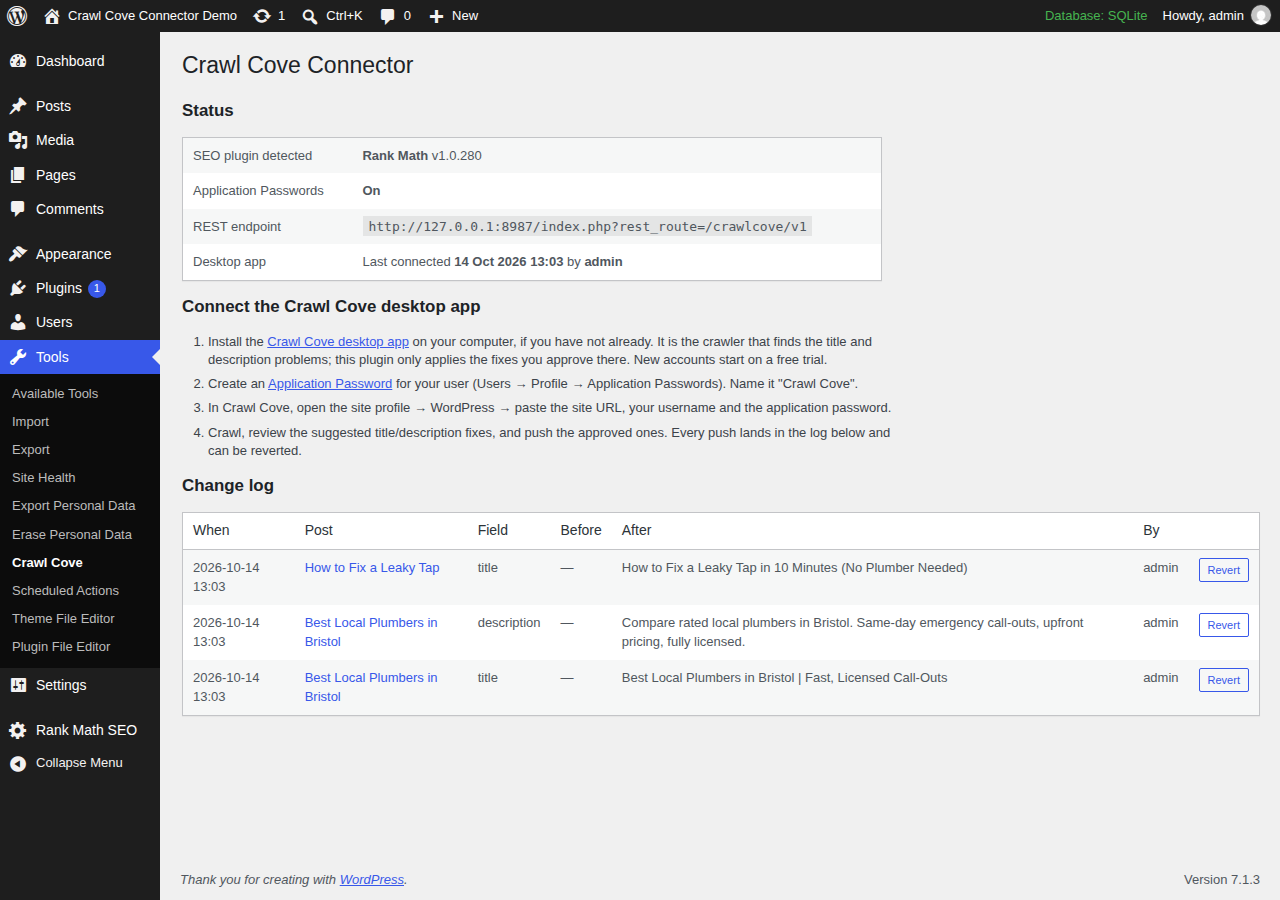
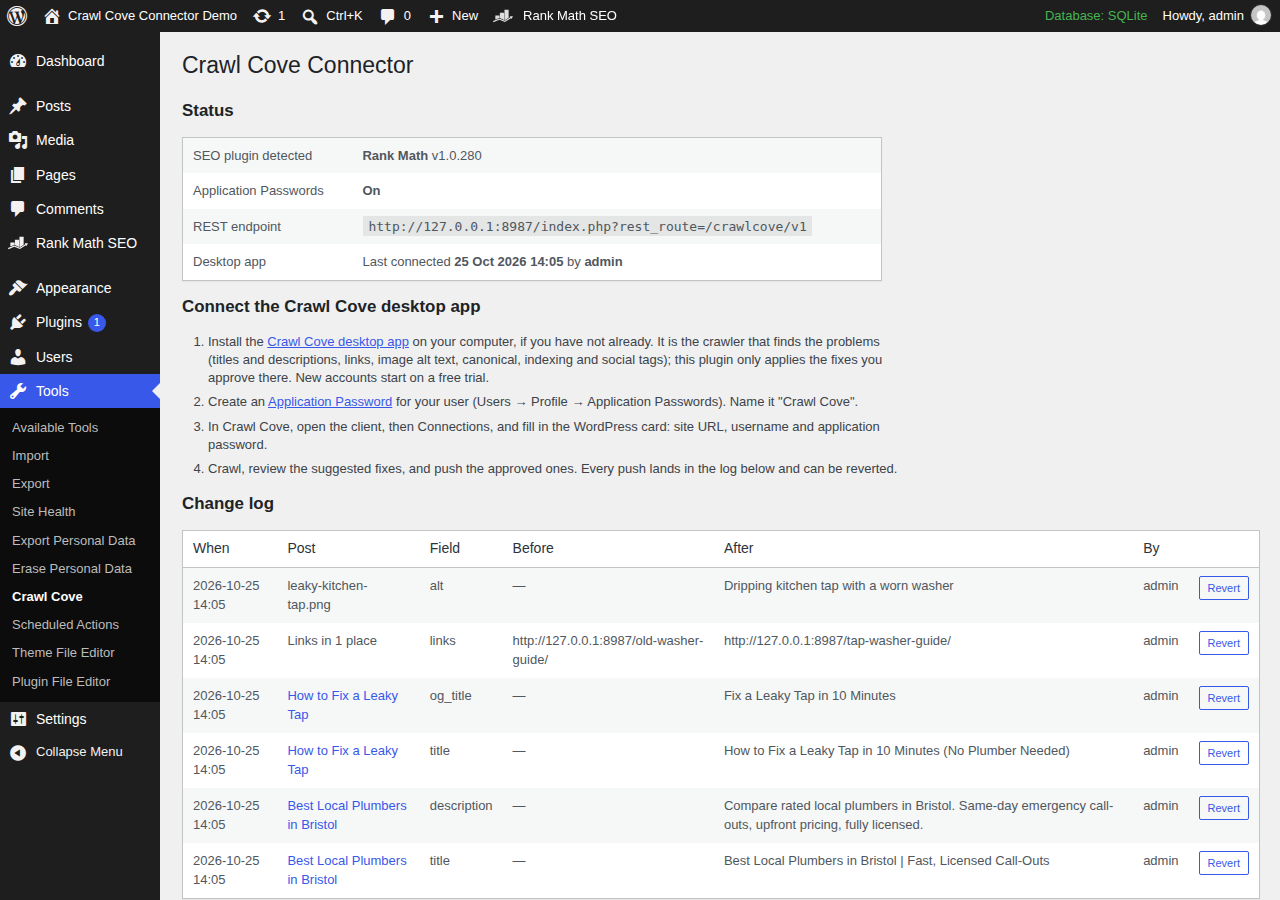
wp: Tools setup steps name the 0.11 fix kinds, screenshot recaptured with them (#282)

diff --git a/admin/class-ccc-admin.php b/admin/class-ccc-admin.php
@@ -238,7 +238,7 @@ class CCC_Admin {
 				<?php
 					printf(
 						/* translators: %s: link to the Crawl Cove download page */
-						wp_kses( __( 'Install the <a href="%s">Crawl Cove desktop app</a> on your computer, if you have not already. It is the crawler that finds the title and description problems; this plugin only applies the fixes you approve there. New accounts start on a free trial.', 'crawl-cove-connector' ), array( 'a' => array( 'href' => array() ) ) ),
+						wp_kses( __( 'Install the <a href="%s">Crawl Cove desktop app</a> on your computer, if you have not already. It is the crawler that finds the problems (titles and descriptions, links, image alt text, canonical, indexing and social tags); this plugin only applies the fixes you approve there. New accounts start on a free trial.', 'crawl-cove-connector' ), array( 'a' => array( 'href' => array() ) ) ),
 						esc_url( self::APP_URL )
 					);
 				?>
@@ -253,7 +253,7 @@ class CCC_Admin {
 				?>
 				</li>
 				<li><?php esc_html_e( 'In Crawl Cove, open the client, then Connections, and fill in the WordPress card: site URL, username and application password.', 'crawl-cove-connector' ); ?></li>
-				<li><?php esc_html_e( 'Crawl, review the suggested title/description fixes, and push the approved ones. Every push lands in the log below and can be reverted.', 'crawl-cove-connector' ); ?></li>
+				<li><?php esc_html_e( 'Crawl, review the suggested fixes, and push the approved ones. Every push lands in the log below and can be reverted.', 'crawl-cove-connector' ); ?></li>
 			</ol>
 
 			<h2><?php esc_html_e( 'Change log', 'crawl-cove-connector' ); ?></h2>

diff --git a/tests/UserFacingStringsTest.php b/tests/UserFacingStringsTest.php
@@ -66,4 +66,15 @@ class UserFacingStringsTest extends TestCase {
 		$this->assertStringContainsString( 'then Connections, and fill in the WordPress card', $admin );
 		$this->assertStringContainsString( 'then Connections, and fill in the WordPress card', (string) file_get_contents( $root . '/readme.txt' ) );
 	}
+
+	/**
+	 * 0.11 fixes far more than titles and descriptions; the setup steps must
+	 * not undersell it (review ticket #282).
+	 */
+	public function test_setup_steps_do_not_limit_fixes_to_titles_and_descriptions() {
+		$admin = (string) file_get_contents( dirname( __DIR__ ) . '/admin/class-ccc-admin.php' );
+		$this->assertStringNotContainsString( 'title/description fixes', $admin );
+		$this->assertStringNotContainsString( 'finds the title and description problems', $admin );
+		$this->assertStringContainsString( 'links, image alt text, canonical, indexing and social tags', $admin );
+	}
 }

diff --git a/wordpress-org/README.md b/wordpress-org/README.md
@@ -8,11 +8,15 @@ repo and gated behind a human-only wordpress.org account.
 - `screenshot-1.png`: Tools → Crawl Cove admin page with sample data,
   captured against the real-WP integration harness (see readme.txt's
   `== Screenshots ==` section for the caption that must stay in step).
-  Recipe (14 Oct 2026): `tests/integration/run.sh --adapter=rankmath`, then
+  Recipe (25 Oct 2026): `tests/integration/run.sh --adapter=rankmath`, then
   on `.site`: blogname "Crawl Cove Connector Demo", delete the harness posts
-  and the `ccc_change_log`/`ccc_change_seq`/`ccc_last_connection` options,
-  create two demo posts, push three fixes through the real `/apply` with an
-  admin application password, serve with `php -S 127.0.0.1:8987`, log in as
+  and attachments and the `ccc_change_log`/`ccc_change_seq`/`ccc_last_connection`
+  options, import an image as `leaky-kitchen-tap.png`, create two demo posts
+  (one linking to an old URL and showing that image with an empty alt), then
+  with an admin application password push through the real routes: `/apply`
+  title + description on one post, title + `og_title` on the other,
+  `/replace-urls` on the link and `/image-alt` on the image (six log rows,
+  so the shot shows the 0.11 fix kinds). Serve with `php -S 127.0.0.1:8987`, log in as
   admin/admin with Playwright and capture `tools.php?page=crawl-cove-connector`
   at a 1280x900 viewport. Regenerate whenever the Tools page changes.
 - `make-assets.php`: regenerates the icon/banner PNGs (PHP GD, run directly:

diff --git a/CHANGELOG.md b/CHANGELOG.md
@@ -2,6 +2,10 @@
 
 ## Unreleased
 
+- **Fix: the Tools page setup steps no longer say the app only finds and
+  pushes title/description fixes** (review #282); step 1 names the 0.11 fix
+  kinds. The directory screenshot is recaptured with the new steps and a log
+  showing links, alt text and social fields.
 - **Fix: setup steps name the app screen that exists** (review #277): the
   Tools page, readme and the wrong-site error said "site profile"; the
   WordPress card is on the client's Connections page.
